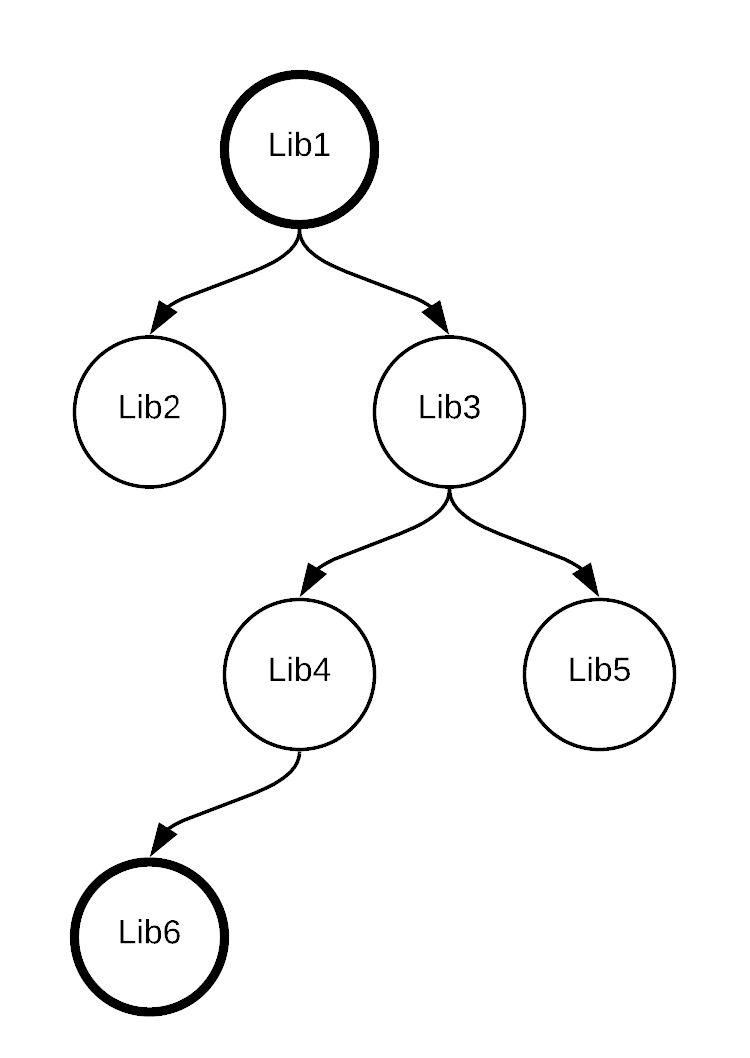
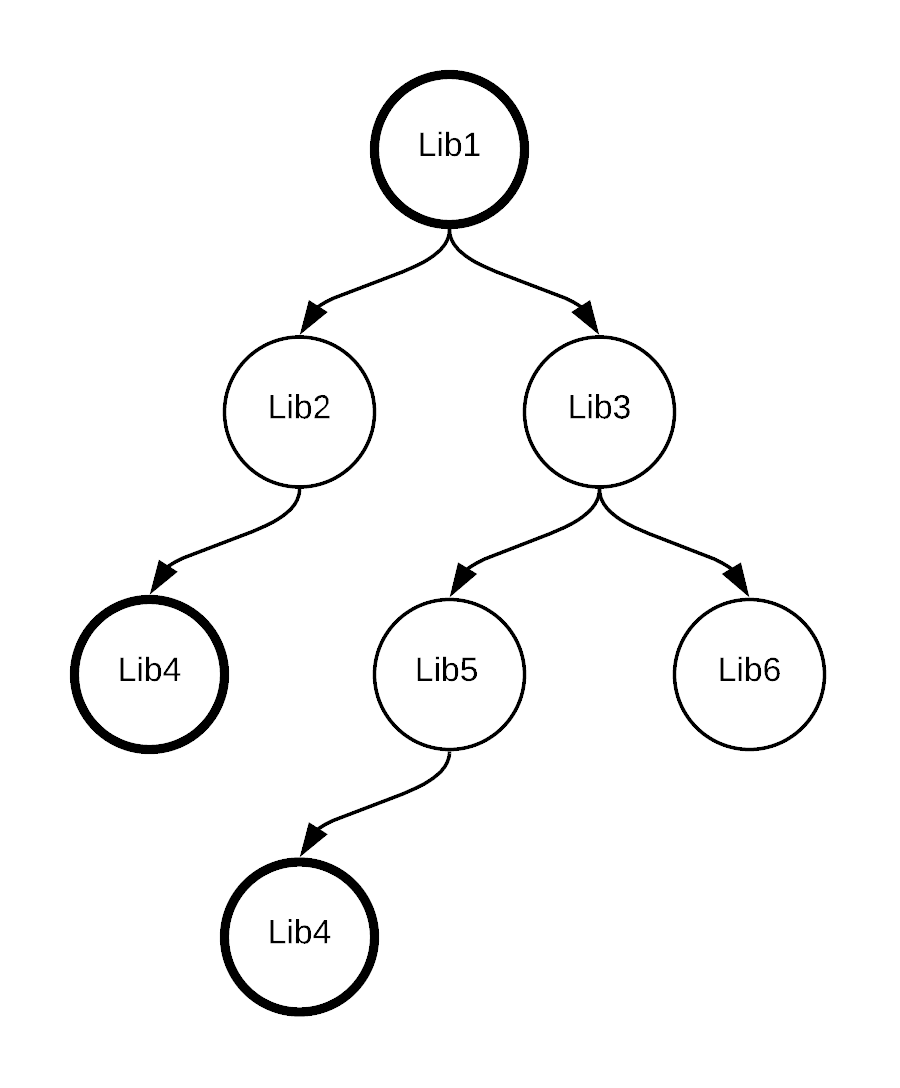
Add description of TMIC

diff --git a/Thesis/sections/3.TheoreticModel.tex b/Thesis/sections/3.TheoreticModel.tex
@@ -322,9 +322,9 @@ In this section, the metrics to measure transtive dependencies are going to be d
 \subsubsection{Revisiting existing metrics}
 In the set of metrics reviewed by Briand et al. there is only one metric that does count indirect coupling, $RFC'$ (see Table \ref{table:coupling-metrics}). This metric also counts inheritance-based coupling and it is focused on the client element, just as the metrics 3 and 4 of this work. However, $RFC'$ is calculated at the class aggregation level, whereas the metric for this work are calculated at the library level. Furthermore, the strategy to count connections is E, which means that it counts the number of elements with which the class has a connection, not how many connections.
 
-Therefore, both metrics 3 and 4 are going to be different from the ones reviewed by Briand et al. \cite{briand1999unified}.
+Therefore, both metrics 3 and 4 are going to be different from those reviewed by Briand et al. \cite{briand1999unified}.
 
-\subsubsection{Concepts related to transitive dependencies}
+\subsubsection{Concepts related to transitive dependencies}\improvement{should this go in background instead?}
 In order to define the coupling for transitive metrics, other factors have to be taken into account which are not needed for the direct metrics.
 
 \paragraph{Reachability}
@@ -344,31 +344,31 @@ The propagation represents how the impact of a change can spread across dependen
 \subsubsection{Formal definition}
 
 \paragraph{Metric 3: Transitive method invocation coupling (TMIC)}
-If we look at how the metric \texttt{MIC} is calculated, it could be sumarized as: find all the methods in Ls that are reachable from Lc. Then, for each one, count how many method calls exist in Lc that reach this method, and sum up the results.
+\todo{decide what to call each formula and whether to use indirect or transitive or something else}
+If we look at how the metric \texttt{MIC} is calculated, it could be sumarized as: find all the methods in $L_s$ that are reachable from $L_c$. Then, for each one, count how many method calls exist in $L_c$ that reach this method, and sum up the results. The main difference between \texttt{MIC} and \texttt{TMIC} is that the calls in $L_c$ will not directly execute a reachable method of $L_s$. The execution of a method in $L_s$ is indirect, since $L_s$ is not a direct dependency of $L_c$.
 
-The idea for the metric \texttt{TMIC} is similar: find all the reachable methods of Ls from Lc. For each of the reachable methods, count how many method calls in Lc can result in the execution of the reachable method, and sum up the result.
+Therefore, to calculate the indirect coupling between two libraries $\verb|IMIC|(L_c, L_s)$ is calculated in the following manner. For each method from $L_s$ that is reachable from $L_c$ ($rm \in \verb|RM|(L_c,L_s)$), we count the number of method invocations in $L_c$ from which $rm$ is reachable, $\verb|nIR|(rm, L_c)$. The number of method invocations is multiplied by the number of polymorphic implementations of $rm$ in $L_s$ ($\verb|nDC|(rm, L_s)$).
 
-The metric \texttt{TMIC} is going to be explained by the means of an example. \texttt{TMIC} calculates the method invocation coupling between a client library ($L_c$) and a server library ($L_s$) which do not have a direct dependency. To illustrate this, we take as example, the dependency tree in Figure \ref{fig:dependency-tree}, in which $L_c$ would be \textit{Lib1} and $L_s$ would be \textit{Lib6}. We also define the list of libraries that represent the path between $L_c$ and $L_s$, $PathLib(L_c, L_s)$. In this case, this list contains \textit{Lib3}, \textit{Lib4}, and \textit{Lib6}.
+\begin{equation*}
+  \verb|IMIC|(L_c,L_s) = \sum_{rm \in \verb|RM|(L_c,L_s)} \verb|nIR|(rm,L_c) * \verb|nDC|(rm, L_s)
+\end{equation*}
 
-% TODO: pensar si vull posar la foto a un lateral amb text al voltant.
+However, this formula does not consider propagation at all. Therefore, it is necessary to take into account the distance between $L_c$ and $L_s$. In addition, it could happen that $L_s$ is reachable from $L_c$ at different distances. For instance, if $L_s$ appeared twice in the dependency tree of $L_c$, this is is the case in Figure \ref{fig:dependency-tree} if we take \textit{Lib1} as $L_c$ and \textit{Lib4} as $L_s$.
+
 \begin{figure}[ht]
-\centering
-\includegraphics[width=.4\textwidth]{figures/Thesis - Dependency Tree.png}
-  \caption{Dependency tree}
+\begin{center}
+\includegraphics[width=0.4\textwidth]{figures/Thesis - Dependency Tree.png}
+\caption{Example dependency tree}
 \label{fig:dependency-tree}
+\end{center}
 \end{figure}
 
-The calculation of this metric is divided in two main steps. The first one consists on, for each method in the client library ($m_c \in M(L_c)$), find all the method calls to methods belonging to the first library in $PathLib(L_c, L_s)$, the called methods are the reachable methods of the library.
+Therefore, the previous formula for $|IMIC|(L_c,L_s)$ will be measured for a certain reachability distance. \todo{This formula will not be final until I have been able to measure it, so let's not look too much at it just yet :)}
+The Transitive Method Invocation Coupling ($\verb|TMIC|(L_c,L_s)$), will be measured as follows. For each distance at which there is coupling between $L_c$ and $L_s$, sum up the coupling measured by $\verb|IMIC|(L_c,L_s, distance)$, multiplied by a propagation factor ($\verb|PF|$) to the power of the distance. Where $\verb|PF| \in (0,1)$.
 
-Steps:
-
-- Find all the calls to methods that belong to libraries in PathLib(Lc, Ls) from Lc.
-- For each method called, follow the call-graph in the library where it is defined.
-    - If the call graph includes a call to another library included in PathLib(Lc, Ls), include it in the reachable methods of the library.
-    - If the call graph includes a call to the library Ls, add it to the reachable methods of Ls.
-- Once all the libraries in PathLib(Lc, Ls) have been visited, we have a set with all the reachable methods of Ls from Lc.
-
- Then, for each reachable method of the libraries in the set $PathLib(L_c, L_s)$, we follow the call-graph that it creates by obtaining all the method calls done in the
+\begin{equation*}
+  \verb|TMIC|(L_c,L_s) = \sum_{distance} \verb|IMIC|(L_c,L_s, distance) * \verb|PF|^{distance}
+\end{equation*}
 
 \paragraph{Metric 4: Transitive aggregation coupling (TAC)}
 
@@ -395,50 +395,3 @@ Steps:
 \paragraph{Property 4: Merging of classes}
 
 \paragraph{Property 5: Merging of unconnected classes}
-
-\begin{comment}
-\subsection{Defining the taxonomy of package replacement (\textbf{RQ2.2})}
-
-Before starting the measurement of package replacement, it is important to specify which kind of replacement is being studied. Therefore, we have defined a classification of the possible scenarios.
-
-First, Kula et al. \cite{kula2014visualizing} in their study about the visualization of the evolution of library dependency, identify four distinct behabiours. Namely, adopter, idler, updater and dropper. In addition, Kikas et al. \cite{kikas2017structure} when studying the evolution of software ecosystems, define two different types of update, explicit and implicit. Considering this two classifications, we have created the following classification:
-
-\begin{table}[ht!]
-    \begin{center}
-    \begin{tabularx}{\textwidth}{|X|l|l|}
-      \hline
-      Description & Kula et al. & Kikas et al. \\
-      \hline\hline
-      Add new package dependency & adopter & - \\
-      \hline
-      Maintain package dependency in new application version & idler & - \\
-      \hline
-      Manual update of dependent package version & updater & explicit package update \\
-      \hline
-      Automatic update of dependent package version & updater & implicit package update \\
-      \hline
-      Change a dependency from one package to another & dropper \& adopter & - \\
-      \hline
-      Remove dependency with a package & dropper & - \\
-      \hline
-    \end{tabularx}
-    \end{center}
-    \caption{Taxonomy of depdendency evolution}
-    \label{table:taxonomy-dependency}
-\end{table}
-
-\blankls
-In this classification, we have added the scenario in which a dependency is dropped and substituted by another one. When looking at the terminology defined by Kula et al. it would mean dropping a package, and adopting a new one at the same time. This situation could be given due to libraries that are not maintained longer. These libraries, are usually marked as deprecated, indicating that there is no team updating it anymore. The dependencies created with these libraries, are called halted libraries \cite{pashchenko2018vulnerable}.
-
-Vulneriabilities created by halted dependencies have to be mitigated with a different and more costly strategy. There are different options to mitigate the vulnerabilities, listed below:
-
-\begin{itemize}
-  \item Replace with a library with the same API. Therefore, the replacement would only involve changing the name of the library in the calls to it.
-
-  \item Replace with a library in which the API is different, with different parameters needed for the calls. In this case, the replacement would involve the entire methods (units) in which the library is used.
-
-  \item Creating a new library. The replacement of this library with this option involves developing the functionalities that were used from the original library.
-
-  \item Contribute to the library. In this case, the effort would be related to the amount of code that needs to be changed in order to fix the bug that is causing the vulnerability.
-\end{itemize}
-\end{comment}
